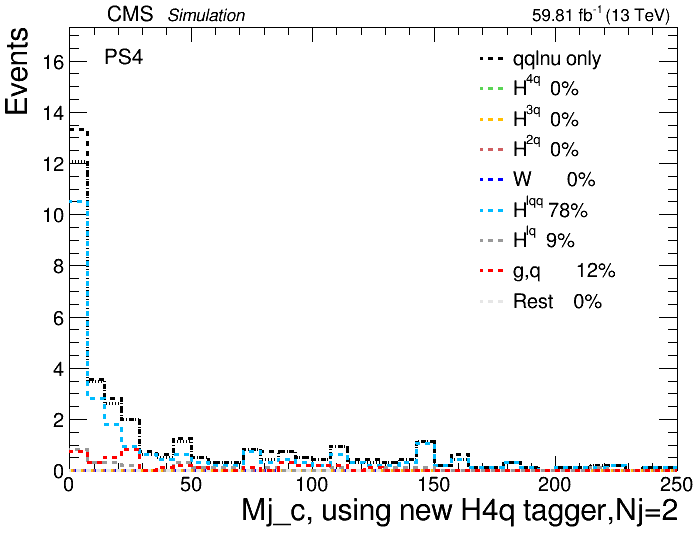
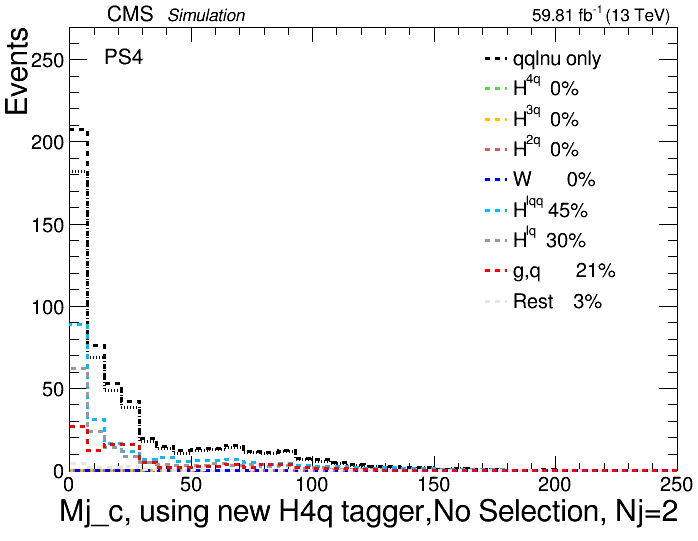
No selection at all

diff --git a/Makeplots_HWW_Nj2_OverData.py b/Makeplots_HWW_Nj2_OverData.py
@@ -179,8 +179,8 @@ class ANALYSIS:
             #self.construct_plot(Nj, "JetMass_Nj2_c"    ,selection          ,"",tag  ,50, 0 ,60,"Mj_c, Nj=2"                        ,"Events" ,logy,CR);             
             #self.construct_plot(Nj, "JetMass_Nj2_a"    ,selection          ,"",tag  ,50, 0 ,250,"Mj_a, Nj=2"                        ,"Events" ,logy,CR);             
             #self.construct_plot(Nj, "JetMass_Nj2_c"    ,selection          ,"",tag  ,50, 0 ,250,"Mj_c, Nj=2"                        ,"Events" ,logy,CR);             
-            self.construct_plot(Nj, "JetMass_Nj2_a_new"    ,selection          ,"",tag  ,35, 0 ,250,"Mj_a, using new H4q tagger,Nj=2"                        ,"Events" ,logy,CR);             
-            self.construct_plot(Nj, "JetMass_Nj2_c_new"    ,selection          ,"",tag  ,35, 0 ,250,"Mj_c, using new H4q tagger,Nj=2"                        ,"Events" ,logy,CR);             
+            self.construct_plot(Nj, "JetMass_Nj2_a_new"    ,selection          ,"",tag  ,35, 0 ,250,"Mj_a, using new H4q tagger,No Selection, Nj=2"                        ,"Events" ,logy,CR);             
+            self.construct_plot(Nj, "JetMass_Nj2_c_new"    ,selection          ,"",tag  ,35, 0 ,250,"Mj_c, using new H4q tagger,No Selection, Nj=2"                        ,"Events" ,logy,CR);             
             #self.construct_plot(Nj, "MET_pt/Pt_Nj2_a_new"    ,selection          ,"",tag  ,20, 0 ,1,"MET/PT_Higgs, using new H4q tagger order,Nj=2"                        ,"Events" ,logy,CR);  
             #self.construct_plot(Nj, "MET_pt/(Pt_Nj2_a_new+Pt_Nj2_c_new)**0.5"    ,selection          ,"",tag  ,20, 0 ,10,"MET Significance"                        ,"Events" ,logy,CR);  
                                  
@@ -342,7 +342,7 @@ class ANALYSIS:
         #----------------- paths to root files -------------------
         #if options.y=="16"      :path="/eos/cms/store/user/.........;  lumi=36.3;
         #if options.y=="17"      :path="/eos/user/y/yusong/qilong/NTuple_Output/17/all/Tree/mu";  lumi= 41.5;
-        if options.y=="18"      :path="/eos/user/y/yuzhe/HWW/frame/Custom/Tree/Nj2/";  lumi=59.81;
+        if options.y=="18"      :path="/eos/user/y/yuzhe/HWW/frame/Custom/Tree/NoSelection/";  lumi=59.81;
         #if options.y=="16,17,18":path="/eos/cms/store/user/.........;  lumi=138;
 
         #====== DEFINE CANVAS ==========================
@@ -364,8 +364,9 @@ class ANALYSIS:
         h_data    = TH1D("h_data"  ,"h_DATA"  +";%s;%s"%(xtitle,ytitle),nbin,min,max);  h_data.Sumw2();  c_data=h_data.Clone("c_data");
         # t_Signal1 = TChain("NewTree");  t_Signal1.Add(path+ "NewTagger_Nj2_2q.root");  h_Signal1=TH1D("h_Signal1","h_Signal1"+";%s;%s"%(xtitle,ytitle),nbin,min,max);  h_Signal1.Sumw2();
         #t_Signal1 = TChain("NewTree");  t_Signal1.Add(path+ "NewTagger_Nj2_2q.root");  h_Signal1=TH1D("h_Signal1","h_Signal1"+";%s;%s"%(xtitle,ytitle),nbin,min,max);  h_Signal1.Sumw2();
-        t_Signal1 = TChain("NewTree");  t_Signal1.Add(path+ "NewTagger_Nj2_2q_Mode.root");  h_Signal1=TH1D("h_Signal1","h_Signal1"+";%s;%s"%(xtitle,ytitle),nbin,min,max);  h_Signal1.Sumw2();
-
+        #t_Signal1 = TChain("NewTree");  t_Signal1.Add(path+ "NewTagger_Nj2_2q_Mode.root");  h_Signal1=TH1D("h_Signal1","h_Signal1"+";%s;%s"%(xtitle,ytitle),nbin,min,max);  h_Signal1.Sumw2();
+        t_Signal1 = TChain("NewTree");  t_Signal1.Add(path+ "2q_NoSelection.root");  h_Signal1=TH1D("h_Signal1","h_Signal1"+";%s;%s"%(xtitle,ytitle),nbin,min,max);  h_Signal1.Sumw2();
+        
         # t_Signal1 = TChain("NewTree");  t_Signal1.Add(path+"Signal/HWW2q_PS.root");  h_Signal1=TH1D("h_Signal1","h_Signal1"+";%s;%s"%(xtitle,ytitle),nbin,min,max);  h_Signal1.Sumw2();
         t_Signal2 = TChain("NewTree"); t_Signal2.Add(path + "NewTagger_Nj2_4q.root"); h_Signal2 = TH1D("h_Signal2", "h_Signal2" + ";%s;%s" % (xtitle, ytitle), nbin, min, max); h_Signal2.Sumw2();
         #t_Signal3 = TChain("PKUTree");  t_Signal3.Add(path+"_out_M2000-R0-5.root" );h_Signal3=TH1D("h_Signal3","h_Signal3"+";%s;%s"%(xtitle,ytitle),nbin,min,max);  h_Signal3.Sumw2();
